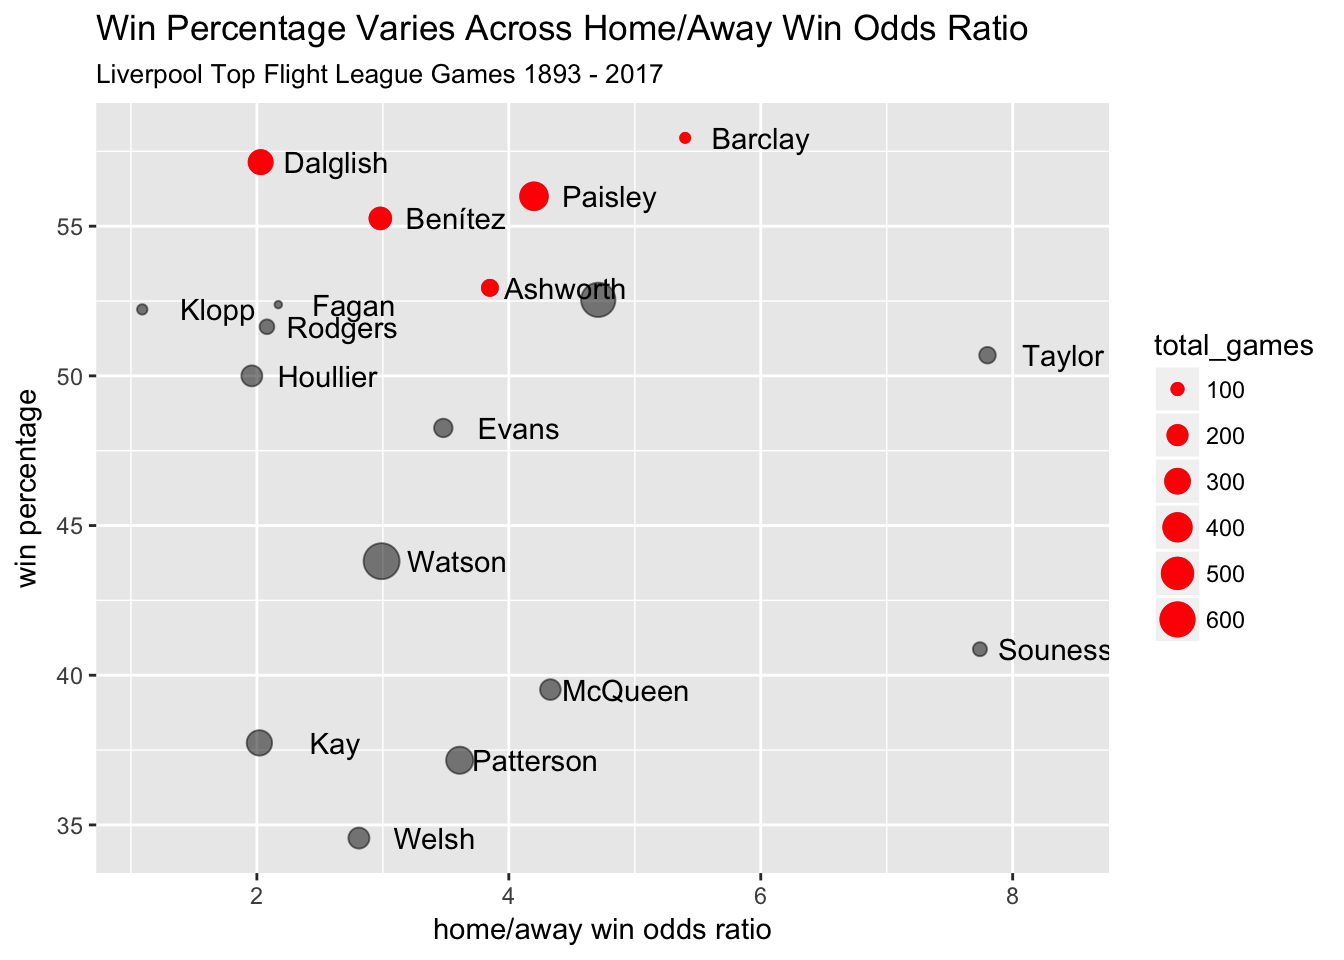
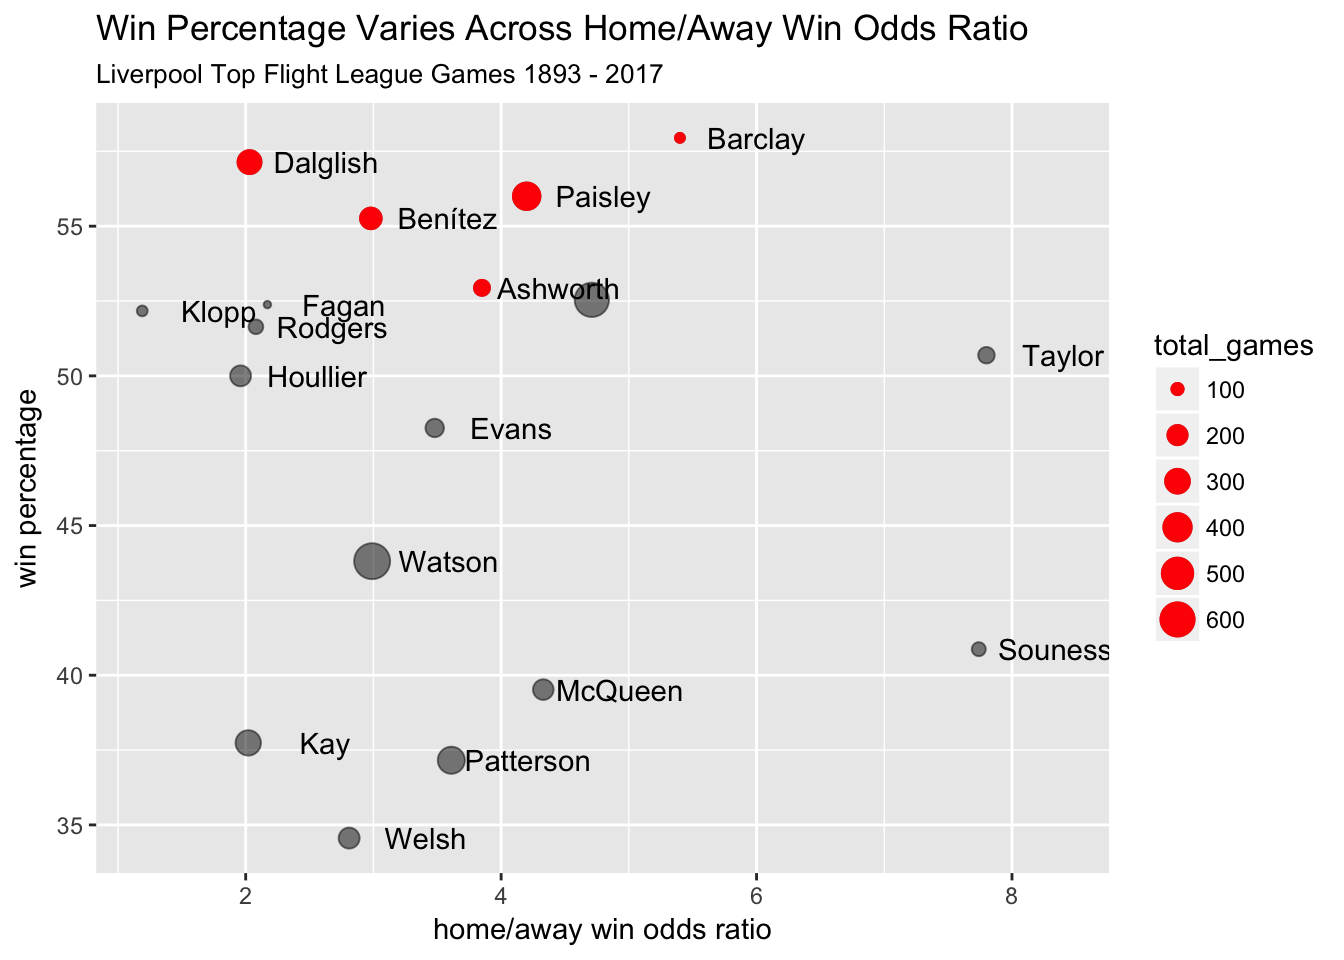
Initial commit CA Dashboards Part 1

diff --git a/content/post/2018-01-25-analyzing-california-school-dashboards-part-1-cleaning.html b/content/post/2018-01-25-analyzing-california-school-dashboards-part-1-cleaning.html
@@ -1,0 +1,93 @@
+---
+title: 'Analyzing California School Dashboards Part 1: Cleaning'
+author: Ryan Estrellado
+date: '2018-01-25'
+slug: analyzing-california-school-dashboards-part-1-cleaning
+categories: []
+tags: []
+draft: TRUE
+---
+
+
+
+<pre class="r"><code>library(tidyverse) </code></pre>
+<pre><code>## ── Attaching packages ───────────────────────────────────────────── tidyverse 1.2.1 ──</code></pre>
+<pre><code>## ✔ ggplot2 2.2.1     ✔ purrr   0.2.4
+## ✔ tibble  1.4.2     ✔ dplyr   0.7.4
+## ✔ tidyr   0.7.2     ✔ stringr 1.2.0
+## ✔ readr   1.1.1     ✔ forcats 0.2.0</code></pre>
+<pre><code>## ── Conflicts ──────────────────────────────────────────────── tidyverse_conflicts() ──
+## ✖ dplyr::filter() masks stats::filter()
+## ✖ dplyr::lag()    masks stats::lag()</code></pre>
+<pre class="r"><code>library(spedtools)</code></pre>
+<pre class="r"><code>math &lt;- read_tsv(&quot;https://query.data.world/s/ShZJAPpHw2DA4dkGvoTKU6xzSb5A61&quot;, 
+                 # Show the whole CDS code instead of scientific format
+                 col_types = cols(cds = col_character())) </code></pre>
+<pre><code>## Warning: Missing column names filled in: &#39;X26&#39; [26]</code></pre>
+<pre class="r"><code>glimpse(math)</code></pre>
+<pre><code>## Observations: 232
+## Variables: 26
+## $ cds            &lt;chr&gt; &quot;43696410000000&quot;, &quot;43696410000000&quot;, &quot;4369641000...
+## $ rtype          &lt;chr&gt; &quot;D&quot;, &quot;D&quot;, &quot;D&quot;, &quot;D&quot;, &quot;D&quot;, &quot;D&quot;, &quot;D&quot;, &quot;D&quot;, &quot;D&quot;, &quot;D...
+## $ schoolname     &lt;chr&gt; NA, NA, NA, NA, NA, NA, NA, NA, NA, NA, NA, NA,...
+## $ districtname   &lt;chr&gt; &quot;Palo Alto Unified&quot;, &quot;Palo Alto Unified&quot;, &quot;Palo...
+## $ countyname     &lt;chr&gt; &quot;Santa Clara&quot;, &quot;Santa Clara&quot;, &quot;Santa Clara&quot;, &quot;S...
+## $ charter_flag   &lt;chr&gt; NA, NA, NA, NA, NA, NA, NA, NA, NA, NA, NA, NA,...
+## $ coe_flag       &lt;chr&gt; NA, NA, NA, NA, NA, NA, NA, NA, NA, NA, NA, NA,...
+## $ studentgroup   &lt;chr&gt; &quot;AA&quot;, &quot;AI&quot;, &quot;ALL&quot;, &quot;AS&quot;, &quot;EL&quot;, &quot;ELO&quot;, &quot;EO&quot;, &quot;FI...
+## $ currdenom      &lt;int&gt; 76, 11, 5480, 1930, 1080, 283, 3495, 37, 6, 688...
+## $ currstatus     &lt;dbl&gt; -46.2, 22.7, 77.7, 120.9, 37.2, -17.3, 78.1, 46...
+## $ priordenom     &lt;int&gt; 96, 15, 5638, 1970, 1103, 399, 3709, 42, 1, 667...
+## $ priorstatus    &lt;dbl&gt; -27.0, 32.7, 79.7, 118.8, 47.3, 23.0, 80.9, 52....
+## $ change         &lt;dbl&gt; -19.2, -9.9, -2.0, 2.0, -10.1, -40.3, -2.7, -5....
+## $ statuslevel    &lt;int&gt; 2, 4, 5, 5, 5, 3, 5, 5, 0, 3, 2, 5, 2, 5, 2, 3,...
+## $ changelevel    &lt;int&gt; 1, 2, 3, 3, 2, 1, 3, 2, 0, 2, 0, 2, 1, 2, 2, 2,...
+## $ color          &lt;int&gt; 2, 0, 5, 5, 4, 0, 0, 4, 0, 3, 0, 4, 2, 0, 2, 3,...
+## $ box            &lt;int&gt; 160, 0, 30, 30, 20, 0, 0, 20, 0, 120, 0, 20, 16...
+## $ caa_denom      &lt;int&gt; NA, NA, 28, NA, NA, NA, NA, NA, NA, NA, NA, NA,...
+## $ caa_level1_num &lt;int&gt; NA, NA, 22, NA, NA, NA, NA, NA, NA, NA, NA, NA,...
+## $ caa_level1_pct &lt;dbl&gt; NA, NA, 78.6, NA, NA, NA, NA, NA, NA, NA, NA, N...
+## $ caa_level2_num &lt;int&gt; NA, NA, 5, NA, NA, NA, NA, NA, NA, NA, NA, NA, ...
+## $ caa_level2_pct &lt;dbl&gt; NA, NA, 17.9, NA, NA, NA, NA, NA, NA, NA, NA, N...
+## $ caa_level3_num &lt;int&gt; NA, NA, 1, NA, NA, NA, NA, NA, NA, NA, NA, NA, ...
+## $ caa_level3_pct &lt;dbl&gt; NA, NA, 3.6, NA, NA, NA, NA, NA, NA, NA, NA, NA...
+## $ ReportingYear  &lt;chr&gt; &quot;2017f&quot;, &quot;2017f&quot;, &quot;2017f&quot;, &quot;2017f&quot;, &quot;2017f&quot;, &quot;2...
+## $ X26            &lt;chr&gt; NA, NA, NA, NA, NA, NA, NA, NA, NA, NA, NA, NA,...</code></pre>
+<p><a href="https://www.cde.ca.gov/ta/ac/cm/mathgr38fall17.asp">file layout</a></p>
+<pre class="r"><code>math &lt;- math %&gt;% 
+  filter(rtype == &quot;S&quot;) %&gt;% 
+  select(cds, school = schoolname, subgroup = studentgroup, student_count = currdenom, avg_dfrom3 = currstatus)
+
+math</code></pre>
+<pre><code>## # A tibble: 215 x 5
+##    cds            school             subgroup student_count avg_dfrom3
+##    &lt;chr&gt;          &lt;chr&gt;              &lt;chr&gt;            &lt;int&gt;      &lt;dbl&gt;
+##  1 43696416048193 Addison Elementary AA                   2      NA   
+##  2 43696416048193 Addison Elementary ALL                217      57.3 
+##  3 43696416048193 Addison Elementary AS                  45      73.8 
+##  4 43696416048193 Addison Elementary EL                  44      26.1 
+##  5 43696416048193 Addison Elementary ELO                 18     - 8.00
+##  6 43696416048193 Addison Elementary EO                 158      60.6 
+##  7 43696416048193 Addison Elementary FI                   1      NA   
+##  8 43696416048193 Addison Elementary HI                  23     -22.0 
+##  9 43696416048193 Addison Elementary MR                  31      62.5 
+## 10 43696416048193 Addison Elementary RFP                 26      49.7 
+## # ... with 205 more rows</code></pre>
+<pre class="r"><code>math &lt;- math %&gt;% 
+  mutate(subgroup = convert_subgroup(subgroup)) 
+
+math</code></pre>
+<pre><code>## # A tibble: 215 x 5
+##    cds            school             subgroup     student_count avg_dfrom3
+##    &lt;chr&gt;          &lt;chr&gt;              &lt;chr&gt;                &lt;int&gt;      &lt;dbl&gt;
+##  1 43696416048193 Addison Elementary Black/Afric…             2      NA   
+##  2 43696416048193 Addison Elementary All Students           217      57.3 
+##  3 43696416048193 Addison Elementary Asian                   45      73.8 
+##  4 43696416048193 Addison Elementary English Lea…            44      26.1 
+##  5 43696416048193 Addison Elementary English Lea…            18     - 8.00
+##  6 43696416048193 Addison Elementary English Only           158      60.6 
+##  7 43696416048193 Addison Elementary Filipino                 1      NA   
+##  8 43696416048193 Addison Elementary Hispanic                23     -22.0 
+##  9 43696416048193 Addison Elementary Multiple Ra…            31      62.5 
+## 10 43696416048193 Addison Elementary RFEPs Only              26      49.7 
+## # ... with 205 more rows</code></pre>

diff --git a/public/index.html b/public/index.html
@@ -73,6 +73,54 @@
         <ul>
           
           <li class="first">
+            <h1><a href="/post/analyzing-california-school-dashboards-part-1-cleaning/" title="Analyzing California School Dashboards Part 1: Cleaning">Analyzing California School Dashboards Part 1: Cleaning</a></h1> 
+            <aside>
+    <ul>
+        <li>
+            <time class="post-date" datetime="2018-01-25T00:00:00Z">
+                Jan 25nd, 2018
+            </time>
+        </li>
+        
+        
+
+        
+
+        <li>4 min read</li>
+    </ul>
+</aside>
+            <p>library(tidyverse)  ## ── Attaching packages ───────────────────────────────────────────── tidyverse 1.2.1 ── ## ✔ ggplot2 2.2.1 ✔ purrr 0.2.4 ## ✔ tibble 1.4.2 ✔ dplyr 0.7.4 ## ✔ tidyr 0.7.2 ✔ stringr 1.</p>
+            
+            <a href="/post/analyzing-california-school-dashboards-part-1-cleaning/">Read more&hellip;</a>
+            
+          </li>
+          
+          <li >
+            <h1><a href="/post/what-it-s-like-to-practice-data-scientist-when-you-re-not-employed-as-a-data-scientist/" title="What It’s Like to Practice Data Scientist When You’re Not Employed As a Data Scientist">What It’s Like to Practice Data Scientist When You’re Not Employed As a Data Scientist</a></h1> 
+            <aside>
+    <ul>
+        <li>
+            <time class="post-date" datetime="2018-01-15T00:00:00Z">
+                Jan 15nd, 2018
+            </time>
+        </li>
+        
+        
+
+        
+
+        <li>1 min read</li>
+    </ul>
+</aside>
+            <p>It’s great.
+It forces you to talk about data science without using data science vocabulary.
+It’s a great reminder that the statistics, programming, and code need to answer a question that means something to someone.</p>
+            
+            <a href="/post/what-it-s-like-to-practice-data-scientist-when-you-re-not-employed-as-a-data-scientist/">Read more&hellip;</a>
+            
+          </li>
+          
+          <li >
             <h1><a href="/post/demonstration-cleaning-your-data/" title="Public School Data is Great, But You Have to Clean It First">Public School Data is Great, But You Have to Clean It First</a></h1> 
             <aside>
     <ul>
@@ -140,6 +188,15 @@
         
 
         
+        <li>
+            <em>
+                
+                    
+                    <a href="/tags/soccer/">#soccer</a>
+                
+            </em>
+        </li>
+        
 
         <li>10 min read</li>
     </ul>
@@ -162,6 +219,15 @@
         
         
 
+        
+        <li>
+            <em>
+                
+                    
+                    <a href="/tags/soccer/">#soccer</a>
+                
+            </em>
+        </li>
         
 
         <li>8 min read</li>

diff --git a/public/post/index.html b/public/post/index.html
@@ -85,25 +85,18 @@
     <ul>
         
         <li>
+            <a href="/post/analyzing-california-school-dashboards-part-1-cleaning/">DRAFT: Analyzing California School Dashboards Part 1: Cleaning</a>
+            <time class="date-meta">Jan 25</time>
+        </li>
+        
+        <li>
+            <a href="/post/what-it-s-like-to-practice-data-scientist-when-you-re-not-employed-as-a-data-scientist/">DRAFT: What It’s Like to Practice Data Scientist When You’re Not Employed As a Data Scientist</a>
+            <time class="date-meta">Jan 15</time>
+        </li>
+        
+        <li>
             <a href="/post/demonstration-cleaning-your-data/">Public School Data is Great, But You Have to Clean It First</a>
             <time class="date-meta">Jan 8</time>
-        </li>
-        
-    </ul>
-    
-    
-
-    <h3>2017</h3>
-    <ul>
-        
-        <li>
-            <a href="/post/explaining_risk_ratios/">DRAFT: Explaining Risk Ratios</a>
-            <time class="date-meta">Dec 4</time>
-        </li>
-        
-        <li>
-            <a href="/post/dalglish-odds-comparison/">Comparing Home and Away Wins of Kenny Dalglish’s Managerial Runs (Also, Did It Matter?)</a>
-            <time class="date-meta">Dec 2</time>
         </li>
         
     </ul>
@@ -150,13 +143,25 @@
     ><a href="/post/page/2/">2</a></li>
     
     
+    
+    
+    
+    
+        
+        
+    
+    
+    <li
+    ><a href="/post/page/3/">3</a></li>
+    
+    
     <li
     >
     <a href="/post/page/2/" aria-label="Next"><span aria-hidden="true">&raquo;</span></a>
     </li>
     
     <li>
-        <a href="/post/page/2/" aria-label="Last"><span aria-hidden="true">&raquo;&raquo;</span></a>
+        <a href="/post/page/3/" aria-label="Last"><span aria-hidden="true">&raquo;&raquo;</span></a>
     </li>
     
 </ul>

diff --git a/public/post/page/2/index.html b/public/post/page/2/index.html
@@ -85,13 +85,18 @@
     <ul>
         
         <li>
-            <a href="/post/lfc-home-and-away-odds/">Liverpool FC&rsquo;s Managers: Home and Away Win Odds</a>
-            <time class="date-meta">Nov 23</time>
+            <a href="/post/explaining_risk_ratios/">DRAFT: Explaining Risk Ratios</a>
+            <time class="date-meta">Dec 4</time>
         </li>
         
         <li>
-            <a href="/post/using-purrr-to-build-custom-reports/">DRAFT: Using Purrr to Build Custom Reports</a>
-            <time class="date-meta">Nov 17</time>
+            <a href="/post/dalglish-odds-comparison/">Comparing Home and Away Wins of Kenny Dalglish’s Managerial Runs (Also, Did It Matter?)</a>
+            <time class="date-meta">Dec 2</time>
+        </li>
+        
+        <li>
+            <a href="/post/lfc-home-and-away-odds/">Liverpool FC&rsquo;s Managers: Home and Away Win Odds</a>
+            <time class="date-meta">Nov 23</time>
         </li>
         
     </ul>
@@ -138,13 +143,25 @@
     class="active"><a href="/post/page/2/">2</a></li>
     
     
+    
+    
+    
+    
+        
+        
+    
+    
     <li
-    class="disabled">
-    <a href="" aria-label="Next"><span aria-hidden="true">&raquo;</span></a>
+    ><a href="/post/page/3/">3</a></li>
+    
+    
+    <li
+    >
+    <a href="/post/page/3/" aria-label="Next"><span aria-hidden="true">&raquo;</span></a>
     </li>
     
     <li>
-        <a href="/post/page/2/" aria-label="Last"><span aria-hidden="true">&raquo;&raquo;</span></a>
+        <a href="/post/page/3/" aria-label="Last"><span aria-hidden="true">&raquo;&raquo;</span></a>
     </li>
     
 </ul>

diff --git a/content/post/2018-01-15-what-it-s-like-to-practice-data-scientist-when-you-re-not-employed-as-a-data-scientist.html b/content/post/2018-01-15-what-it-s-like-to-practice-data-scientist-when-you-re-not-employed-as-a-data-scientist.html
@@ -1,0 +1,17 @@
+---
+title: What It’s Like to Practice Data Scientist When You’re Not Employed As a Data
+  Scientist
+author: Ryan Estrellado
+date: '2018-01-15'
+slug: what-it-s-like-to-practice-data-scientist-when-you-re-not-employed-as-a-data-scientist
+categories: []
+tags: [] 
+draft: true
+---
+
+
+
+<p>It’s great.</p>
+<p>It forces you to talk about data science without using data science vocabulary.</p>
+<p>It’s a great reminder that the statistics, programming, and code need to answer a question that means something to someone.</p>
+<p>We used to call people who used word processors “computer people” but now we call them writers (among other things).</p>

diff --git a/content/post/2017-11-23-lfc-home-and-away-odds.html b/content/post/2017-11-23-lfc-home-and-away-odds.html
@@ -4,7 +4,7 @@ author: Ryan Estrellado
 date: '2017-11-23'
 slug: lfc-home-and-away-odds
 categories: []
-tags: []
+tags: ["soccer"]
 ---
 
 
@@ -229,8 +229,8 @@ kable(win_ratios, caption = &quot;Home Win Odds to Away Win Odds&quot;, align = 
 </tr>
 <tr class="odd">
 <td align="center">Klopp</td>
-<td align="center">90</td>
-<td align="center">1.09</td>
+<td align="center">92</td>
+<td align="center">1.19</td>
 </tr>
 <tr class="even">
 <td align="center">McQueen</td>

diff --git a/public/tags/index.html b/public/tags/index.html
@@ -81,6 +81,8 @@
         
             <li><a href="school_data">school_data</a> <span class="count">(1 entries)</span></li>
         
+            <li><a href="soccer">soccer</a> <span class="count">(2 entries)</span></li>
+        
     </ul>
 
 </section>

diff --git a/content/post/2017-11-28-dalglish-odds-comparison.html b/content/post/2017-11-28-dalglish-odds-comparison.html
@@ -4,7 +4,7 @@ author: Ryan Estrellado
 date: '2017-12-02'
 slug: dalglish-odds-comparison
 categories: []
-tags: []
+tags: ["soccer"]
 ---
 
 
